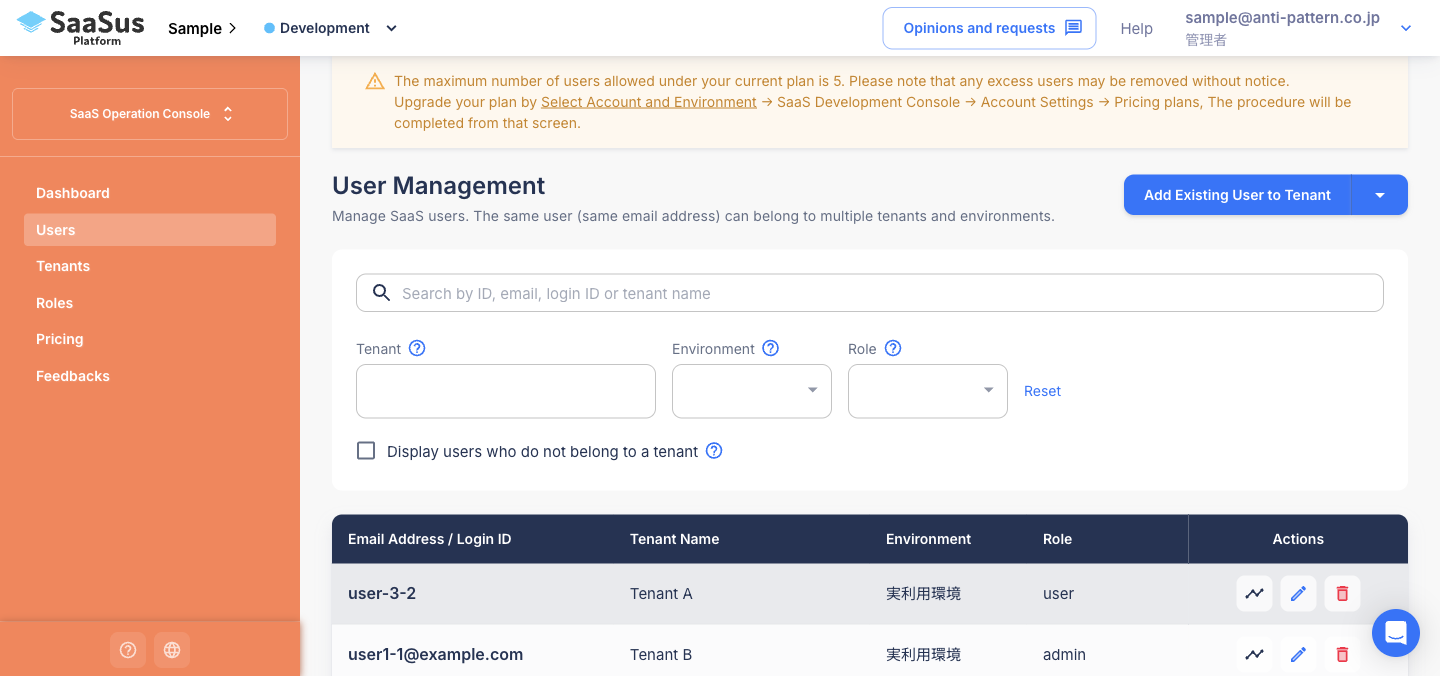
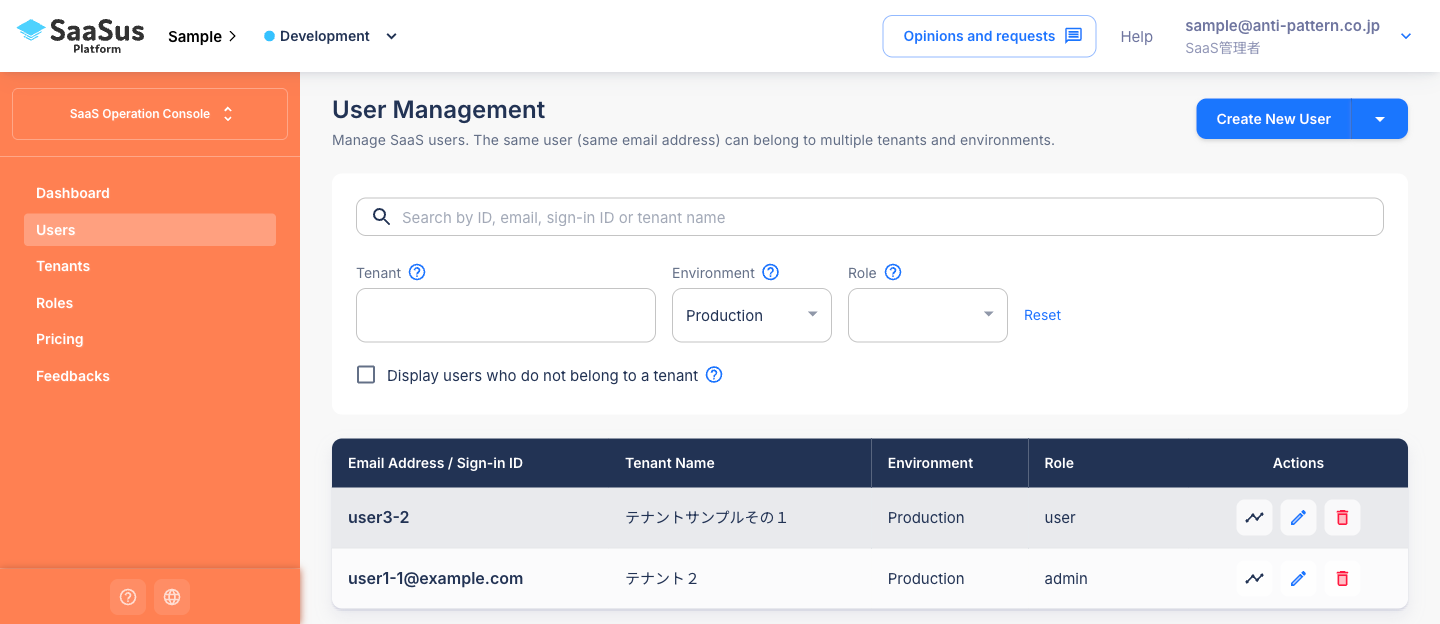
fix: rename "Login ID" to "Sign-in ID" for consistency

diff --git a/docs/part-4/mcp-server/bulk-user-registration.md b/docs/part-4/mcp-server/bulk-user-registration.md
@@ -42,7 +42,7 @@ Please read the saasus_users.csv file and execute bulk user registration using t
 【Important】Please execute all of the following processes automatically:
 
 1. CSV File Reading
-   - Email Address / Login ID: User's email address or login ID (required; if it contains @, registered as email authentication; if no @, registered as login ID authentication)
+   - Email Address / Sign-in ID: User's email address or sign-in ID (required; if it contains @, registered as email authentication; if no @, registered as sign-in ID authentication)
    - Tenant Name: Tenant name (required, separate rows for multiple tenants)
    - Environment: Environment name (required, string like prod/dev/test)
    - Role: Role name (required, single role, separate rows for multiple roles)
@@ -57,9 +57,9 @@ Please read the saasus_users.csv file and execute bulk user registration using t
      3. Get environment ID from environment name, skip the row if it doesn't exist
 
 3. Bulk User Registration
-   - Pre-processing: Read entire CSV file, execute validation, then group data by email address / login ID
-   - User Creation: Create SaaS users on first occurrence of each email address / login ID (for email address: no password, email notification; for login ID: temporary password issued)
-   - Tenant Processing: Create tenant users on first occurrence of each email address / login ID for each tenant and set name attribute
+   - Pre-processing: Read entire CSV file, execute validation, then group data by email address / sign-in ID
+   - User Creation: Create SaaS users on first occurrence of each email address / sign-in ID (for email address: no password, email notification; for sign-in ID: temporary password issued)
+   - Tenant Processing: Create tenant users on first occurrence of each email address / sign-in ID for each tenant and set name attribute
    - Role Processing: Assign specified roles for each row
    - Environment Setting: Get environment ID from environment name specified in CSV environment column and execute role assignment
    - Duplicate Avoidance: Skip creation of existing SaaS users and tenant users, execute only role addition
@@ -77,7 +77,7 @@ Please execute all processes automatically and provide a detailed report at the 
 
 ### File Structure
 ```csv
-email_or_login_id,tenant_name,environment,role,name
+Email address / Sign-in ID,Tenant name,Environment,Role,Name
 user1@example.com,company_a,prod,admin,John Tanaka
 user1@example.com,company_a,prod,user,John Tanaka
 user2@example.com,company_a,prod,user,Jane Sato
@@ -90,11 +90,11 @@ user5@example.com,company_b,prod,user,Misaki Takahashi
 ```
 
 ### Column Descriptions
-- **email_or_login_id**: User's email address or login ID (required; if it contains @, registered as email authentication; if no @, registered as login ID authentication)
-- **tenant_name**: Tenant name to belong to (required, separate rows for multiple tenants, skip if doesn't exist)
-- **environment**: Environment name (required, string like prod/dev/test, skip if doesn't exist)
-- **role**: Role name to assign (required, single role, separate rows for multiple roles, skip if doesn't exist)
-- **name**: User's name (set as attribute, optional)
+- **Email address / Sign-in ID**: User's email address or sign-in ID (required; if it contains @, registered as email authentication; if no @, registered as sign-in ID authentication)
+- **Tenant name**: Tenant name to belong to (required, separate rows for multiple tenants, skip if doesn't exist)
+- **Environment**: Environment name (required, string like prod/dev/test, skip if doesn't exist)
+- **Role**: Role name to assign (required, single role, separate rows for multiple roles, skip if doesn't exist)
+- **Name**: User's name (set as attribute, optional)
 - **Custom Attributes**: All columns to the right of role are treated as custom attributes (optional, error at CSV reading time if attribute doesn't exist)
 
 ### Handling Multiple Tenants and Roles
@@ -108,7 +108,7 @@ user5@example.com,company_b,prod,user,Misaki Takahashi
 CSV files exported using [User List CSV Export Procedure](./export-user-info-csv.md) can be used directly. The CSV exported by the export function is fully compatible with the format expected by this bulk registration function.
 
 **Important**: When using the export function, ensure the following required items for bulk registration are configured to be output:
-- Email Address / Login ID = true
+- Email Address / Sign-in ID = true
 - Tenant Name = true
 - Environment = true
 - Role = true

diff --git a/versioned_docs/version-1.12/part-4/mcp-server/bulk-user-registration.md b/versioned_docs/version-1.12/part-4/mcp-server/bulk-user-registration.md
@@ -42,7 +42,7 @@ Please read the saasus_users.csv file and execute bulk user registration using t
 【Important】Please execute all of the following processes automatically:
 
 1. CSV File Reading
-   - Email Address / Login ID: User's email address or login ID (required; if it contains @, registered as email authentication; if no @, registered as login ID authentication)
+   - Email Address / Sign-in ID: User's email address or sign-in ID (required; if it contains @, registered as email authentication; if no @, registered as sign-in ID authentication)
    - Tenant Name: Tenant name (required, separate rows for multiple tenants)
    - Environment: Environment name (required, string like prod/dev/test)
    - Role: Role name (required, single role, separate rows for multiple roles)
@@ -57,9 +57,9 @@ Please read the saasus_users.csv file and execute bulk user registration using t
      3. Get environment ID from environment name, skip the row if it doesn't exist
 
 3. Bulk User Registration
-   - Pre-processing: Read entire CSV file, execute validation, then group data by email address / login ID
-   - User Creation: Create SaaS users on first occurrence of each email address / login ID (for email address: no password, email notification; for login ID: temporary password issued)
-   - Tenant Processing: Create tenant users on first occurrence of each email address / login ID for each tenant and set name attribute
+   - Pre-processing: Read entire CSV file, execute validation, then group data by email address / sign-in ID
+   - User Creation: Create SaaS users on first occurrence of each email address / sign-in ID (for email address: no password, email notification; for sign-in ID: temporary password issued)
+   - Tenant Processing: Create tenant users on first occurrence of each email address / sign-in ID for each tenant and set name attribute
    - Role Processing: Assign specified roles for each row
    - Environment Setting: Get environment ID from environment name specified in CSV environment column and execute role assignment
    - Duplicate Avoidance: Skip creation of existing SaaS users and tenant users, execute only role addition
@@ -77,7 +77,7 @@ Please execute all processes automatically and provide a detailed report at the 
 
 ### File Structure
 ```csv
-email_or_login_id,tenant_name,environment,role,name
+Email address / Sign-in ID,Tenant name,Environment,Role,Name
 user1@example.com,company_a,prod,admin,John Tanaka
 user1@example.com,company_a,prod,user,John Tanaka
 user2@example.com,company_a,prod,user,Jane Sato
@@ -90,11 +90,11 @@ user5@example.com,company_b,prod,user,Misaki Takahashi
 ```
 
 ### Column Descriptions
-- **email_or_login_id**: User's email address or login ID (required; if it contains @, registered as email authentication; if no @, registered as login ID authentication)
-- **tenant_name**: Tenant name to belong to (required, separate rows for multiple tenants, skip if doesn't exist)
-- **environment**: Environment name (required, string like prod/dev/test, skip if doesn't exist)
-- **role**: Role name to assign (required, single role, separate rows for multiple roles, skip if doesn't exist)
-- **name**: User's name (set as attribute, optional)
+- **Email address / Sign-in ID**: User's email address or sign-in ID (required; if it contains @, registered as email authentication; if no @, registered as sign-in ID authentication)
+- **Tenant name**: Tenant name to belong to (required, separate rows for multiple tenants, skip if doesn't exist)
+- **Environment**: Environment name (required, string like prod/dev/test, skip if doesn't exist)
+- **Role**: Role name to assign (required, single role, separate rows for multiple roles, skip if doesn't exist)
+- **Name**: User's name (set as attribute, optional)
 - **Custom Attributes**: All columns to the right of role are treated as custom attributes (optional, error at CSV reading time if attribute doesn't exist)
 
 ### Handling Multiple Tenants and Roles
@@ -108,7 +108,7 @@ user5@example.com,company_b,prod,user,Misaki Takahashi
 CSV files exported using [User List CSV Export Procedure](./export-user-info-csv.md) can be used directly. The CSV exported by the export function is fully compatible with the format expected by this bulk registration function.
 
 **Important**: When using the export function, ensure the following required items for bulk registration are configured to be output:
-- Email Address / Login ID = true
+- Email Address / Sign-in ID = true
 - Tenant Name = true
 - Environment = true
 - Role = true

diff --git a/docs/part-5/user-management/user-crud.md b/docs/part-5/user-management/user-crud.md
@@ -13,7 +13,7 @@ You can filter and search users using the following criteria:
 
 **Available search filters:**
 
-- **ID, Email Address, Login ID, or Tenant Name**: Text input
+- **ID, Email Address, Sign-in ID, or Tenant Name**: Text input
 - **Tenant**: Text box with autocomplete
 - **Environment**: Select box
 - **Role**: Select box
@@ -29,7 +29,7 @@ At the top of the user registration window, you can select one of the following 
 - Create With E-Mail Address: Create a user with email address authentication
 - Create With Sign-In ID: Create a user with login ID authentication
 
-The input fields change depending on the selected tab, and only one of "Email Address" or "Login ID" is shown.
+The input fields change depending on the selected tab, and only one of "Email Address" or "Sign-in ID" is shown.
 
 This section explains the input fields.
 
@@ -39,7 +39,7 @@ This section explains the input fields.
 |----------------|-----------------------------------------------------------------------------|
 | Creation Method | Select the **Create With E-Mail Address** or **Create With Sign-In ID** tab |
 | E-mail Address  | Displayed when **Create With E-Mail Address** is selected. Used for user login |
-| Login ID        | Displayed when **Create With Sign-In ID** is selected (allowed: alphanumeric characters, hyphen (-), underscore (_); max 50 characters) |
+| Sign-in ID      | Displayed when **Create With Sign-In ID** is selected (allowed: alphanumeric characters, hyphen (-), underscore (_); max 50 characters) |
 | Password (Optional) | Enter a password for login. If left blank, a temporary password is issued |
 | Tenant          | Select the tenant to associate the user with                                |
 | User Attributes | Fill in predefined user attributes (e.g., Username, Department, Role, etc.) |
@@ -74,7 +74,7 @@ Clicking the edit icon opens a window where user information can be modified.
 **Editable fields:**
 
 - E-mail Address (when email address authentication is used)
-- Login ID (when login ID authentication is used)
+- Sign-in ID (when login ID authentication is used)
 - Password (re-entry)
 - User Attributes (e.g., Username, Department, etc.)
 

diff --git a/versioned_docs/version-1.12/part-5/user-management/user-crud.md b/versioned_docs/version-1.12/part-5/user-management/user-crud.md
@@ -13,7 +13,7 @@ You can filter and search users using the following criteria:
 
 **Available search filters:**
 
-- **ID, Email Address, Login ID, or Tenant Name**: Text input
+- **ID, Email Address, Sign-in ID, or Tenant Name**: Text input
 - **Tenant**: Text box with autocomplete
 - **Environment**: Select box
 - **Role**: Select box
@@ -29,7 +29,7 @@ At the top of the user registration window, you can select one of the following 
 - Create With E-Mail Address: Create a user with email address authentication
 - Create With Sign-In ID: Create a user with login ID authentication
 
-The input fields change depending on the selected tab, and only one of "Email Address" or "Login ID" is shown.
+The input fields change depending on the selected tab, and only one of "Email Address" or "Sign-in ID" is shown.
 
 This section explains the input fields.
 
@@ -39,7 +39,7 @@ This section explains the input fields.
 |----------------|-----------------------------------------------------------------------------|
 | Creation Method | Select the **Create With E-Mail Address** or **Create With Sign-In ID** tab |
 | E-mail Address  | Displayed when **Create With E-Mail Address** is selected. Used for user login |
-| Login ID        | Displayed when **Create With Sign-In ID** is selected (allowed: alphanumeric characters, hyphen (-), underscore (_); max 50 characters) |
+| Sign-in ID      | Displayed when **Create With Sign-In ID** is selected (allowed: alphanumeric characters, hyphen (-), underscore (_); max 50 characters) |
 | Password (Optional) | Enter a password for login. If left blank, a temporary password is issued |
 | Tenant          | Select the tenant to associate the user with                                |
 | User Attributes | Fill in predefined user attributes (e.g., Username, Department, Role, etc.) |
@@ -74,7 +74,7 @@ Clicking the edit icon opens a window where user information can be modified.
 **Editable fields:**
 
 - E-mail Address (when email address authentication is used)
-- Login ID (when login ID authentication is used)
+- Sign-in ID (when login ID authentication is used)
 - Password (re-entry)
 - User Attributes (e.g., Username, Department, etc.)
 

diff --git a/docs/part-4/mcp-server/export-user-info-csv.md b/docs/part-4/mcp-server/export-user-info-csv.md
@@ -30,7 +30,7 @@ If the same user has multiple tenants or roles, output as separate rows
 Do not use cache, always retrieve the latest information
 
 [Field Settings]
-Email address / Login ID = true
+Email address / Sign-in ID = true
 Tenant name = true
 Environment = true
 Role = true
@@ -40,7 +40,7 @@ Role = true
 ; Custom attribute 2 = true
 
 [Field Descriptions]
-Email address / Login ID: User's email address or login ID (if it contains @, email authentication; if no @, login ID authentication)
+Email address / Sign-in ID: User's email address or sign-in ID (if it contains @, email authentication; if no @, sign-in ID authentication)
 Tenant name: Name of the tenant the user belongs to
 Environment: Environment the user is using (e.g., production, development, test, etc.)
 Role: Role assigned to the user (e.g., administrator, user, guest, etc.)
@@ -62,7 +62,7 @@ Tenant name = Tenant2
 
 [Output Example]
 ; The following is an example of the output CSV
-; Email address / Login ID,Tenant name,Environment,Role,Name
+; Email address / Sign-in ID,Tenant name,Environment,Role,Name
 ; user1-1@example.com,Tenant1,prod,administrator,User1-1
 ; user1-1@example.com,Tenant1,prod,general user,User1-1
 ; user1-2@example.com,Tenant1,prod,administrator,User1-2
@@ -73,7 +73,7 @@ Tenant name = Tenant2
 
 ### CSV Header
 ```csv
-Email address / Login ID,Tenant name,Environment,Role
+Email address / Sign-in ID,Tenant name,Environment,Role
 ```
 
 ### Example Data Rows

diff --git a/versioned_docs/version-1.12/part-4/mcp-server/export-user-info-csv.md b/versioned_docs/version-1.12/part-4/mcp-server/export-user-info-csv.md
@@ -30,7 +30,7 @@ If the same user has multiple tenants or roles, output as separate rows
 Do not use cache, always retrieve the latest information
 
 [Field Settings]
-Email address / Login ID = true
+Email address / Sign-in ID = true
 Tenant name = true
 Environment = true
 Role = true
@@ -40,7 +40,7 @@ Role = true
 ; Custom attribute 2 = true
 
 [Field Descriptions]
-Email address / Login ID: User's email address or login ID (if it contains @, email authentication; if no @, login ID authentication)
+Email address / Sign-in ID: User's email address or sign-in ID (if it contains @, email authentication; if no @, sign-in ID authentication)
 Tenant name: Name of the tenant the user belongs to
 Environment: Environment the user is using (e.g., production, development, test, etc.)
 Role: Role assigned to the user (e.g., administrator, user, guest, etc.)
@@ -62,7 +62,7 @@ Tenant name = Tenant2
 
 [Output Example]
 ; The following is an example of the output CSV
-; Email address / Login ID,Tenant name,Environment,Role,Name
+; Email address / Sign-in ID,Tenant name,Environment,Role,Name
 ; user1-1@example.com,Tenant1,prod,administrator,User1-1
 ; user1-1@example.com,Tenant1,prod,general user,User1-1
 ; user1-2@example.com,Tenant1,prod,administrator,User1-2
@@ -73,7 +73,7 @@ Tenant name = Tenant2
 
 ### CSV Header
 ```csv
-Email address / Login ID,Tenant name,Environment,Role
+Email address / Sign-in ID,Tenant name,Environment,Role
 ```
 
 ### Example Data Rows

diff --git a/docs/part-7/faq/saasus-platform.md b/docs/part-7/faq/saasus-platform.md
@@ -32,10 +32,10 @@ This is the conventional user authentication using an email address.
 This method uses any string as a login ID (allowed: alphanumeric characters, hyphen (-), underscore (_); max 50 characters). It supports operations for users without email addresses.
 
  - **How to Use Both Methods**  
-When creating a user, you can choose either "Email Address" or "Login ID" based on your service requirements. Both methods can coexist within the same tenant.
+When creating a user, you can choose either "Email Address" or "Sign-in ID" based on your service requirements. Both methods can coexist within the same tenant.
 
  - **Login Screen Label Customization**  
-This setting is required for users created with ID authentication to log in using a login ID. By turning ON **Basic Settings > Login ID**, the login input label changes to "Email Address / Login ID".
+This setting is required for users created with ID authentication to log in using a sign-in ID. By turning ON **Basic Settings > Sign-in ID**, the login input label changes to "Email Address / Sign-in ID".
 
 ---
 

diff --git a/versioned_docs/version-1.12/part-7/faq/saasus-platform.md b/versioned_docs/version-1.12/part-7/faq/saasus-platform.md
@@ -32,10 +32,10 @@ This is the conventional user authentication using an email address.
 This method uses any string as a login ID (allowed: alphanumeric characters, hyphen (-), underscore (_); max 50 characters). It supports operations for users without email addresses.
 
  - **How to Use Both Methods**  
-When creating a user, you can choose either "Email Address" or "Login ID" based on your service requirements. Both methods can coexist within the same tenant.
+When creating a user, you can choose either "Email Address" or "Sign-in ID" based on your service requirements. Both methods can coexist within the same tenant.
 
  - **Login Screen Label Customization**  
-This setting is required for users created with ID authentication to log in using a login ID. By turning ON **Basic Settings > Login ID**, the login input label changes to "Email Address / Login ID".
+This setting is required for users created with ID authentication to log in using a sign-in ID. By turning ON **Basic Settings > Sign-in ID**, the login input label changes to "Email Address / Sign-in ID".
 
 ---
 

diff --git a/docs/part-4/application-settings/basic-app-settings.md b/docs/part-4/application-settings/basic-app-settings.md
@@ -22,7 +22,7 @@ The following items can be edited:
 | **Terms of Use URL**     | URL linked from the “Terms of Use” text at the bottom of the login screen |
 | **Privacy Policy URL**   | URL linked from the “Privacy Policy” text at the bottom of the login screen |
 | **Google Tag Manager Container ID** | Sets the Google Tag Manager container ID. For details, see [Google Tag Manager Settings](/docs/part-4/application-settings/googletagmanagersetting). |
-| **Login ID**             | Required setting for users created with ID authentication to log in using a login ID. When this switch is ON, the login input label changes to “Email Address / Login ID”. The default is OFF. |
+| **Sign-in ID**             | Required setting for users created with ID authentication to log in using a sign-in ID. When this switch is ON, the login input label changes to “Email Address / Sign-in ID”. The default is OFF. |
 
 ![Example Edit Screen](/img/part-4/application-settings/basic-app-settings/authorization-screen-customize-02.png)
 

diff --git a/versioned_docs/version-1.12/part-4/application-settings/basic-app-settings.md b/versioned_docs/version-1.12/part-4/application-settings/basic-app-settings.md
@@ -22,7 +22,7 @@ The following items can be edited:
 | **Terms of Use URL**     | URL linked from the “Terms of Use” text at the bottom of the login screen |
 | **Privacy Policy URL**   | URL linked from the “Privacy Policy” text at the bottom of the login screen |
 | **Google Tag Manager Container ID** | Sets the Google Tag Manager container ID. For details, see [Google Tag Manager Settings](/docs/part-4/application-settings/googletagmanagersetting). |
-| **Login ID**             | Required setting for users created with ID authentication to log in using a login ID. When this switch is ON, the login input label changes to “Email Address / Login ID”. The default is OFF. |
+| **Sign-in ID**             | Required setting for users created with ID authentication to log in using a sign-in ID. When this switch is ON, the login input label changes to “Email Address / Sign-in ID”. The default is OFF. |
 
 ![Example Edit Screen](/img/part-4/application-settings/basic-app-settings/authorization-screen-customize-02.png)
 

diff --git a/docs/part-3/saasus-platform-architecture.md b/docs/part-3/saasus-platform-architecture.md
@@ -79,7 +79,7 @@ Secure access control to your SaaS application.
   When a user logs in, ID, access, and refresh tokens are issued. Subsequent API requests include these tokens for authentication.
 
 - **Selectable login methods**  
-  Standard authentication with email address or Login ID and password is available, as well as Google social login.
+  Standard authentication with email address or Sign-in ID and password is available, as well as Google social login.
 
 - **Role‑based user permissions**  
   Define roles (e.g., administrator, general user) so only authorized users can perform privileged actions.

diff --git a/versioned_docs/version-1.12/part-3/saasus-platform-architecture.md b/versioned_docs/version-1.12/part-3/saasus-platform-architecture.md
@@ -79,7 +79,7 @@ Secure access control to your SaaS application.
   When a user logs in, ID, access, and refresh tokens are issued. Subsequent API requests include these tokens for authentication.
 
 - **Selectable login methods**  
-  Standard authentication with email address or Login ID and password is available, as well as Google social login.
+  Standard authentication with email address or Sign-in ID and password is available, as well as Google social login.
 
 - **Role‑based user permissions**  
   Define roles (e.g., administrator, general user) so only authorized users can perform privileged actions.
